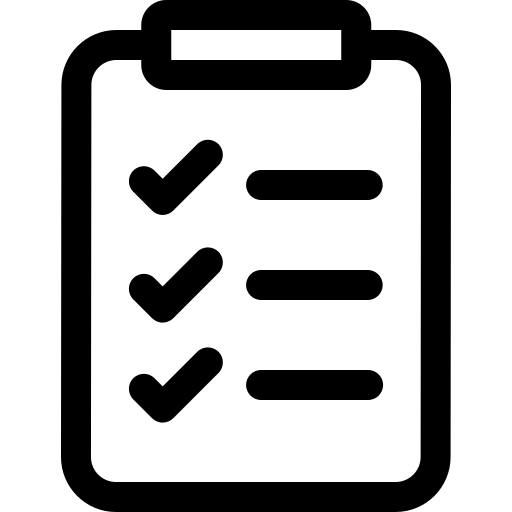
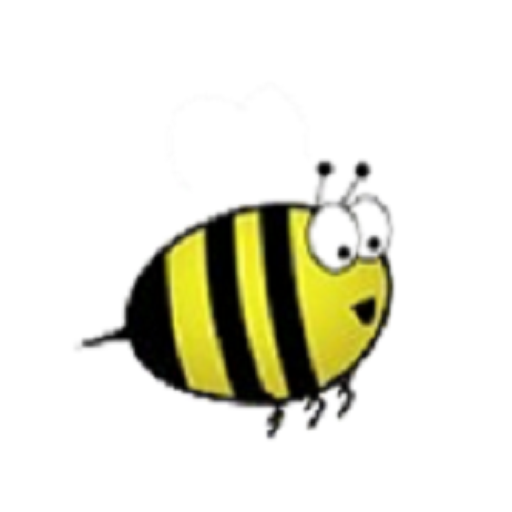
data added

diff --git a/js/pages/List.js b/js/pages/List.js
@@ -71,7 +71,7 @@ export default {
                                 <img v-if="record.mobile" :src="\`/assets/phone-landscape\${store.dark ? '-dark' : ''}.svg\`" alt="Mobile">
                             </td>
                             <td class="hz">
-                                <p>{{ record.hz }}Hz</p>
+                                <p>#{{ record.hz }}</p>
                             </td>
                         </tr>
                     </table>
@@ -100,16 +100,16 @@ export default {
                     </template>
                     <h3>Submission Requirements</h3>
                     <p>
-                        Achieved the record without using hacks (however, FPS bypass is allowed, up to 360fps)
+                        Achieved the record without using hacks (List of banned hacks can be found <a href="https://docs.google.com/spreadsheets/d/1evE4nXATxRAQWu2Ajs54E6cVUqHBoSid8I7JauJnOzg/edit?usp=sharing" target="_blank">here</a>)
                     </p>
                     <p>
                         Achieved the record on the level that is listed on the site - please check the level ID before you submit a record
                     </p>
                     <p>
-                        Have either source audio or clicks/taps in the video. Edited audio only does not count
+                        Have either click/tap sounds or a handcam.
                     </p>
                     <p>
-                        The recording must have a previous attempt and entire death animation shown before the completion, unless the completion is on the first attempt. Everyplay records are exempt from this
+                        The recording must have a previous attempt and entire death animation shown before the completion, unless the completion is on the first attempt.
                     </p>
                     <p>
                         The recording must also show the player hit the endwall, or the completion will be invalidated.
@@ -122,6 +122,32 @@ export default {
                     </p>
                     <p>
                         Once a level falls onto the Legacy List, we accept records for it for 24 hours after it falls off, then afterwards we never accept records for said level
+                    </p>
+                    <h3>Level Submission Guidelines</h3>
+                    <p>
+                        Have at least some gameplay (no auto levels)
+                    </p>
+                    <p>
+                        No Inappropriate content in the level, including but not limited to: gore, sexual content, hate speech, etc.
+                    </p>
+                    <p>
+                        Be 45 seconds long or less.
+                    </p>
+                    <p>
+                        Be uploaded to the geometry dash servers (Levels that get deleted from the servers will be removed from the list)
+                    </p>
+                    <p>
+                        Have a verification that meets the requirements for record submissions (see above)
+                    </p>
+                    <h3>Additional Information</h3>
+                    <p>
+                        All levels and completions on this list must be submitted to the discord server in order to be accepted. The discord server is also the best way to contact list staff if you have any questions or concerns about the list. The link to the discord can be found <a href="https://www.discord.com/invite/63CvQswbbY" target="_blank">here</a>.
+                    </p>
+                    <p>
+                        Please allow 24-48 hours for a submitted level or record to be placed on the list. If more than 48 hours has passed, please open a general support ticket in the discord server.
+                    </p>
+                    <p>
+                        Please beware that if a submission is found to be cheated in any way, ALL your completions AND verifications WILL BE REMOVED from the list. You may appeal this decision in the discord server by opening a ticket.
                     </p>
                 </div>
             </div>

diff --git a/index.html b/index.html
@@ -3,7 +3,7 @@
     <head>
         <meta charset="UTF-8" />
         <meta name="viewport" content="width=1024" />
-        <title>Your List Name</title>
+        <title>KSG Challenge List</title>
 
         <!-- Replace your server icon by uploading an image file named "list_icon.png"-->
         <link rel="icon" href="/list_icon.png" />
@@ -37,7 +37,7 @@
     <body id="app">
         <header :class="{ dark: store.dark }">
             <div class="logo">
-                <h2>Sample List</h2>
+                <h2>KCL</h2>
                 <p>v1.0.0</p>
             </div>
             <nav class="nav">
@@ -60,14 +60,13 @@
                             alt=""
                         />
                     </button>
-                    <!-- Replace the '#' with your discord server's invite-->
-                    <a class="nav__icon" href="#">
+                    <a class="nav__icon" href="https://www.discord.com/invite/63CvQswbbY">
                         <img src="/assets/discord.svg" alt="Discord Logo" />
                     </a>
                     <!-- List record submission form, add a link to replace the '#' when putting a link to your list submission form-->
                     <a
                         class="nav__cta type-label-lg"
-                        href="#"
+                        href="https://www.discord.com/invite/63CvQswbbY"
                         target="_blank"
                         >Submit Record</a
                     >

diff --git a/css/main.css b/css/main.css
@@ -3,7 +3,7 @@
     --color-on-background: black;
     --color-background-hover: #eee;
     --color-on-background-hover: black;
-    --color-primary: #0066ff;
+    --color-primary: #948500;
     --color-on-primary: white;
     --color-error: #de0000;
     --color-on-error: white;
@@ -16,7 +16,7 @@ header.dark {
     --color-on-background: white;
     --color-background-hover: #27262c;
     --color-on-background-hover: white;
-    --color-primary: #283593;
+    --color-primary: #948500;
     --color-primary-disabled: #1f213c;
     --color-on-primary: white;
     --color-error: #de0000;
